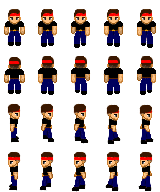
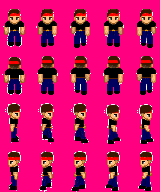
Halo

diff --git a/Engine/Player.cpp b/Engine/Player.cpp
@@ -105,10 +105,10 @@ Player::Player(Object obj, float hel,bool isAlive):object(obj),health(hel),isAli
 	aimsDown = true;
 	aimsUp = false;
 	for (int i = 0; i < (int)Sequences::StandDown; i++) {
-		animations.emplace_back(Animation(32, 48 * i, 32, 48, 4, surface, 0.00001f));
+		animations.emplace_back(Animation(32, 48 * i, 32, 48, 4, surface, 0.001f));
 	}
 	for (int i = (int)Sequences::StandDown; i < (int)Sequences::Count; i++) {
-		animations.emplace_back(Animation(0, 48 * (i-(int)Sequences::StandDown), 32, 48, 1, surface, 0.00001f));
+		animations.emplace_back(Animation(0, 48 * (i-(int)Sequences::StandDown), 32, 48, 1, surface, 0.001f));
 	}
 	
 }

diff --git a/Engine/Colors.h b/Engine/Colors.h
@@ -51,6 +51,14 @@ public:
 		dword = color.dword;
 		return *this;
 	}
+	bool operator!=(const Color& color) {
+		if (color.dword != this->dword)return true;
+		else { return false; }
+	}
+	bool operator ==(const Color & color){
+		if (color.dword != this->dword)return false;
+		else { return true; }
+	}
 	constexpr unsigned char GetX() const
 	{
 		return dword >> 24u;

diff --git a/Engine/Graphics.cpp b/Engine/Graphics.cpp
@@ -335,6 +335,7 @@ void Graphics::DrawSprite(int x, int y, const Rect& src, const Surface& s)
 	assert(src.bottom <= s.GetHeight() );
 	for (int dy = src.top; dy < src.bottom; dy++) {
 		for (int dx = src.left; dx < src.right; dx++) {
+			if(s.GetPixel(dx,dy)!=Colors::MakeRGB(255,0,128))
 			PutPixel(x + dx - src.left, y + dy - src.top, s.GetPixel(dx, dy));
 		}
 	}

diff --git a/Engine/Game.cpp b/Engine/Game.cpp
@@ -57,6 +57,7 @@ void Game::UpdateModel()
 
 void Game::ComposeFrame()
 {
-    board.DrawBoard(gfx);
+     board.DrawBoard(gfx);
     player.Draw(gfx);
+  
 }
